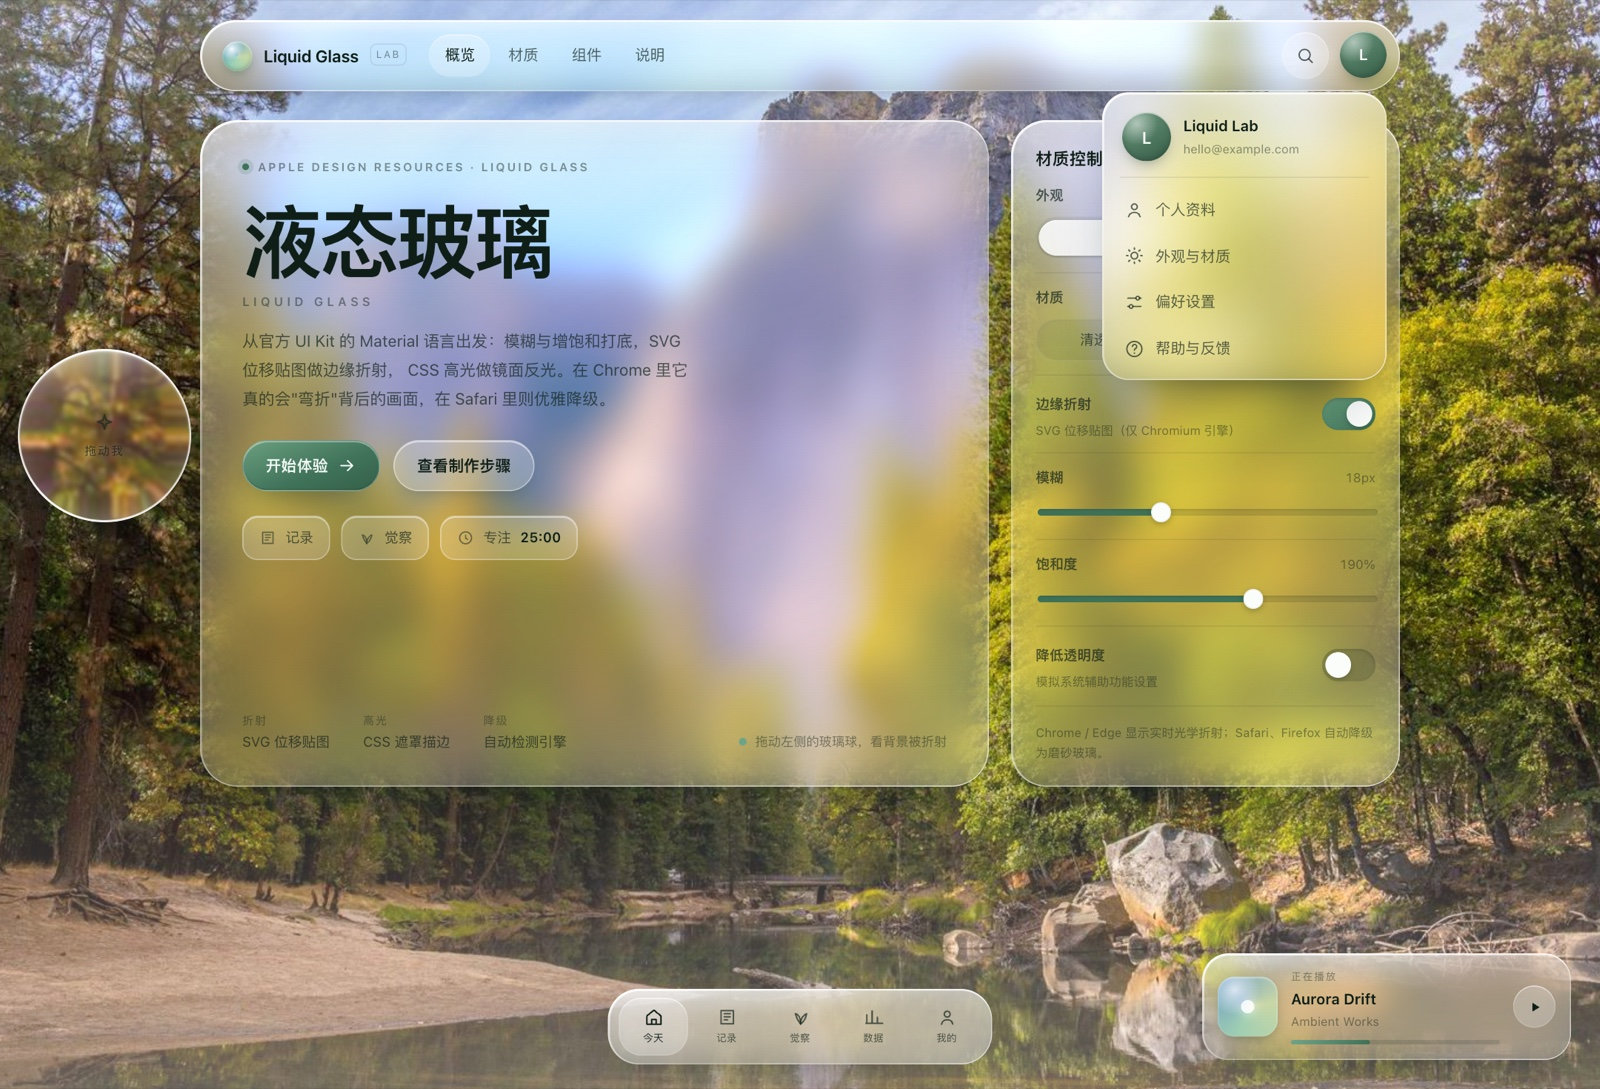
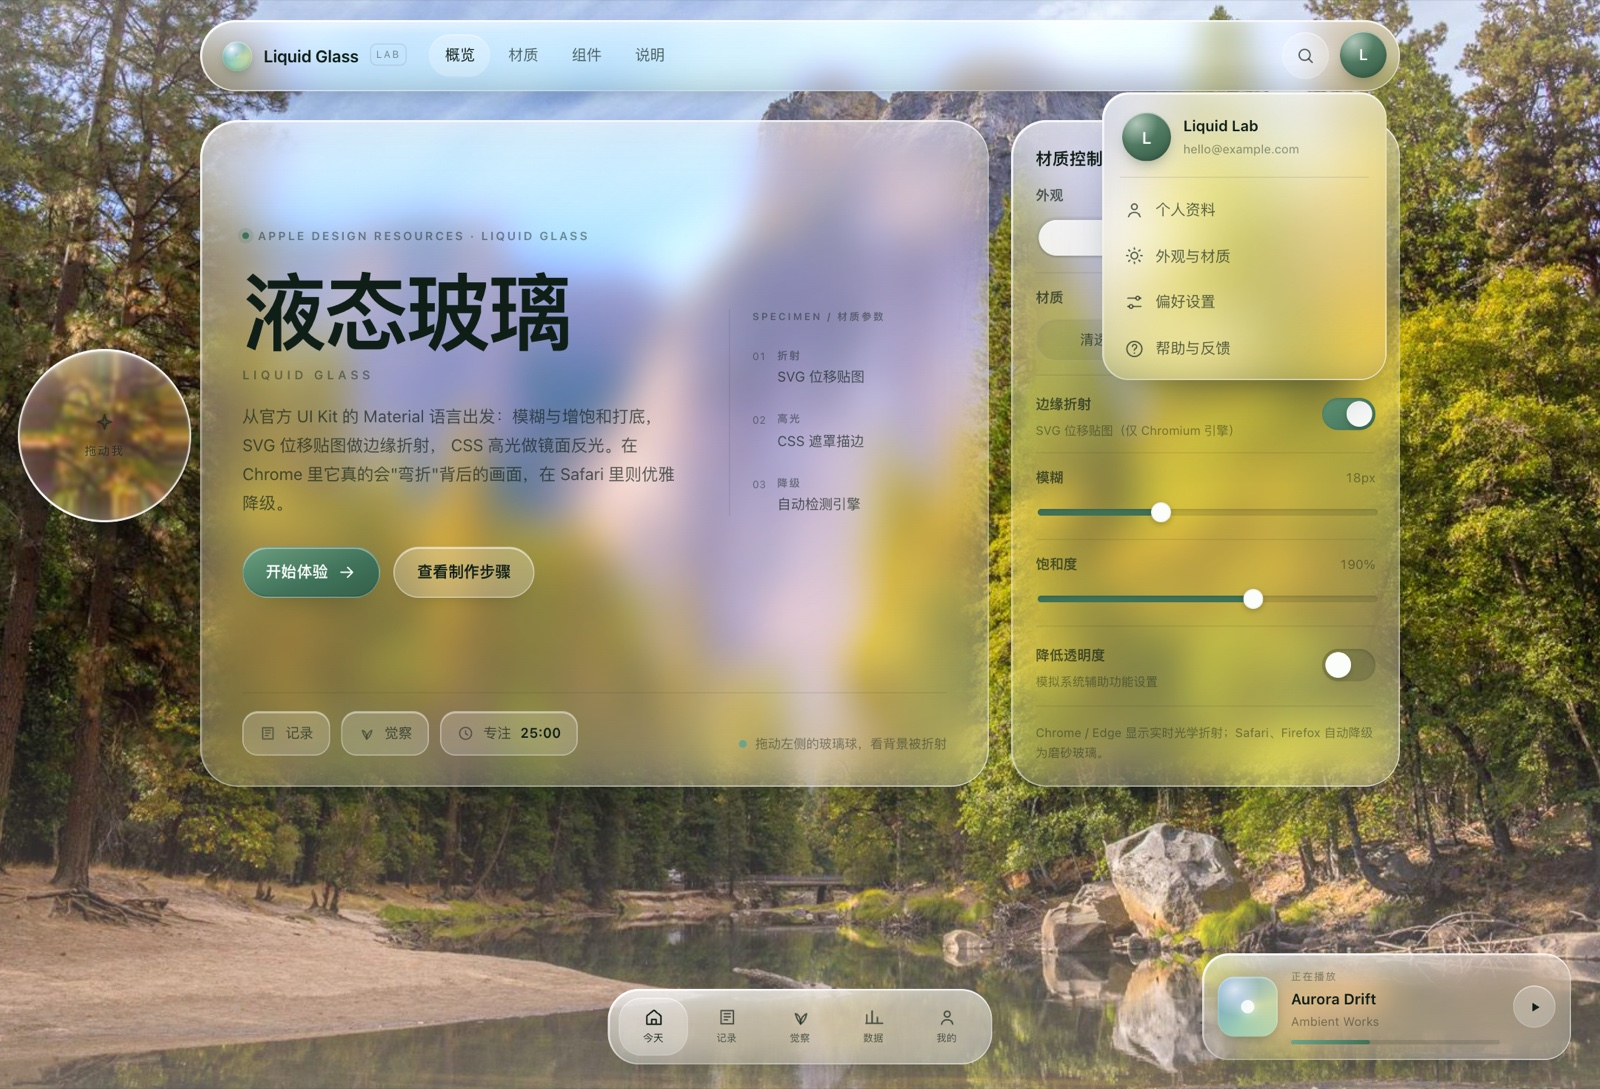
Refine negative space: specimen rail, hero footer rule, section indices, responsive rhythm

diff --git a/examples/lab/lab.css b/examples/lab/lab.css
@@ -527,13 +527,59 @@ html[data-theme="dark"] .lg-material--clear { --lg-fill-a: 0.2; --lg-fill-a-lo: 
 
 /* ---------- 8. Hero ---------- */
 .hero {
-  padding: 34px 38px 30px;
+  padding: 34px 38px 28px;
   min-height: 500px;
+  display: grid;
+  grid-template-columns: minmax(0, 1fr) 196px;
+  grid-template-rows: 1fr auto;
+  column-gap: 30px;
+  row-gap: 24px;
+  --lg-radius: 34px;
+}
+
+.hero__top {
+  grid-column: 1;
+  grid-row: 1;
+  align-self: center;
+}
+
+.hero__specs {
+  grid-column: 2;
+  grid-row: 1;
+  align-self: center;
   display: flex;
   flex-direction: column;
-  justify-content: space-between;
-  gap: 30px;
-  --lg-radius: 34px;
+  gap: 20px;
+  padding-left: 20px;
+  border-left: 1px solid var(--hairline);
+}
+.specs__cap {
+  font-size: 9px;
+  font-weight: 600;
+  letter-spacing: 0.2em;
+  text-transform: uppercase;
+  color: var(--ink-faint);
+}
+.spec { display: flex; gap: 10px; }
+.spec__no {
+  font-size: 9.5px;
+  color: var(--ink-faint);
+  font-variant-numeric: tabular-nums;
+  padding-top: 1px;
+}
+.spec__k {
+  display: block;
+  font-size: 9.5px;
+  font-weight: 600;
+  letter-spacing: 0.14em;
+  text-transform: uppercase;
+  color: var(--ink-faint);
+}
+.spec__v {
+  display: block;
+  margin-top: 2px;
+  font-size: 12.5px;
+  color: var(--ink-soft);
 }
 
 .eyebrow {
@@ -556,7 +602,7 @@ html[data-theme="dark"] .lg-material--clear { --lg-fill-a: 0.2; --lg-fill-a-lo: 
 
 .hero h1 {
   margin-top: 22px;
-  font-size: clamp(50px, 5vw, 74px);
+  font-size: clamp(54px, 5.3vw, 78px);
   line-height: 0.96;
   letter-spacing: -0.035em;
   font-weight: 680;
@@ -573,14 +619,14 @@ html[data-theme="dark"] .lg-material--clear { --lg-fill-a: 0.2; --lg-fill-a-lo: 
 
 .lede {
   margin-top: 18px;
-  max-width: 44ch;
-  font-size: 14.5px;
-  line-height: 1.78;
+  max-width: 42ch;
+  font-size: 15px;
+  line-height: 1.75;
   color: var(--ink-soft);
 }
 
 .hero__actions {
-  margin-top: 24px;
+  margin-top: 26px;
   display: flex;
   align-items: center;
   gap: 12px;
@@ -643,7 +689,7 @@ html[data-theme="dark"] .btn--quiet:hover { background: rgba(255, 255, 255, 0.13
 .btn--sm { height: 38px; padding: 0 16px; font-size: 12.5px; }
 
 .hero__quick {
-  margin-top: 22px;
+  margin-top: 0;
   display: flex;
   gap: 10px;
   flex-wrap: wrap;
@@ -669,21 +715,16 @@ html[data-theme="dark"] .quick {
 }
 
 .hero__bottom {
+  grid-column: 1 / -1;
+  grid-row: 2;
   display: flex;
   align-items: flex-end;
   justify-content: space-between;
   gap: 20px;
   flex-wrap: wrap;
+  padding-top: 16px;
+  border-top: 1px solid var(--hairline);
 }
-.hero__facts { display: flex; gap: 30px; }
-.fact { display: flex; flex-direction: column; gap: 2px; }
-.fact__k {
-  font-size: 10px;
-  letter-spacing: 0.14em;
-  text-transform: uppercase;
-  color: var(--ink-faint);
-}
-.fact__v { font-size: 12.5px; color: var(--ink-soft); }
 
 .hero__hint {
   display: flex;
@@ -918,19 +959,31 @@ html[data-theme="dark"] .section-head {
   background: rgba(255, 255, 255, 0.06);
   border-color: rgba(255, 255, 255, 0.14);
 }
+.section-head__lead {
+  display: flex;
+  align-items: baseline;
+  gap: 14px;
+}
+.section-head__no {
+  font-size: 10px;
+  letter-spacing: 0.18em;
+  color: var(--ink-faint);
+  font-variant-numeric: tabular-nums;
+}
 .section-head h2 { font-size: 15px; font-weight: 620; }
 .section-head p {
   font-size: 12px;
   line-height: 1.6;
   color: var(--ink-faint);
-  max-width: 62ch;
+  max-width: 56ch;
+  text-align: right;
 }
 
 .material-grid {
   display: grid;
   grid-template-columns: repeat(3, minmax(0, 1fr));
   gap: 20px;
-  margin-top: 14px;
+  margin-top: 16px;
 }
 
 .material-card {
@@ -964,13 +1017,13 @@ html[data-theme="dark"] .section-head {
 .material-card .btn { align-self: flex-start; }
 
 /* ---------- 11. Components ---------- */
-.components { margin-top: 34px; }
+.components { margin-top: 40px; }
 
 .component-grid {
   display: grid;
   grid-template-columns: repeat(3, minmax(0, 1fr));
   gap: 20px;
-  margin-top: 14px;
+  margin-top: 16px;
 }
 
 .component-card {
@@ -1071,7 +1124,7 @@ html[data-theme="dark"] .chip {
 
 /* ---------- 12. Notes ---------- */
 .notes {
-  margin-top: 40px;
+  margin-top: 48px;
   padding: 16px 20px;
   border-radius: 18px;
   display: flex;
@@ -1313,8 +1366,8 @@ html[data-theme="dark"] .lens__inner { text-shadow: 0 1px 8px rgba(0, 0, 0, 0.5)
   .player { display: none; }
   .materials { margin-top: 64px; }
   .stage { grid-template-columns: minmax(0, 1fr); }
-  .hero { min-height: 440px; }
-  .console { max-width: 620px; }
+  .hero { min-height: 0; }
+  .console { max-width: 620px; margin-inline: auto; }
 }
 
 @media (max-width: 860px) {
@@ -1324,16 +1377,40 @@ html[data-theme="dark"] .lens__inner { text-shadow: 0 1px 8px rgba(0, 0, 0, 0.5)
   .hero { padding: 28px 26px 26px; --lg-radius: 28px; }
   .hero h1 { font-size: clamp(46px, 13vw, 64px); }
   .lede { font-size: 13.5px; }
-  .console { padding: 22px; }
+  .console { padding: 22px; max-width: none; }
   .material-grid, .component-grid { grid-template-columns: minmax(0, 1fr); }
   .lens { width: 132px; height: 132px; --lg-blur: 14px; left: 18px; bottom: 110px; }
   .lens__inner { font-size: 9px; }
   .lens__inner .i { width: 18px; height: 18px; }
   .dock { width: calc(100vw - 28px); justify-content: space-between; padding: 7px 8px; }
   .dock__item { width: auto; flex: 1; }
-  .hero__facts { gap: 20px; }
   .hero__hint { display: none; }
   .menu { top: 84px; right: 16px; }
+}
+
+@media (max-width: 760px) {
+  .hero {
+    grid-template-columns: minmax(0, 1fr);
+    grid-template-rows: auto auto auto;
+    row-gap: 22px;
+  }
+  .hero__top { grid-column: 1; grid-row: 1; }
+  .hero__specs {
+    grid-column: 1;
+    grid-row: 2;
+    align-self: stretch;
+    display: grid;
+    grid-template-columns: repeat(3, minmax(0, 1fr));
+    gap: 14px 18px;
+    padding-left: 0;
+    padding-top: 16px;
+    border-left: 0;
+    border-top: 1px solid var(--hairline);
+  }
+  .specs__cap { grid-column: 1 / -1; }
+  .spec__no { display: none; }
+  .spec__v { font-size: 12px; }
+  .hero__bottom { grid-column: 1; grid-row: 3; }
 }
 
 @media (max-width: 520px) {

diff --git a/examples/lab/index.html b/examples/lab/index.html
@@ -91,7 +91,34 @@
               查看制作步骤
             </button>
           </div>
+        </div>
 
+        <aside class="hero__specs" aria-label="技术参数">
+          <span class="specs__cap">Specimen / 材质参数</span>
+          <div class="spec">
+            <span class="spec__no">01</span>
+            <span class="spec__body">
+              <span class="spec__k">折射</span>
+              <span class="spec__v">SVG 位移贴图</span>
+            </span>
+          </div>
+          <div class="spec">
+            <span class="spec__no">02</span>
+            <span class="spec__body">
+              <span class="spec__k">高光</span>
+              <span class="spec__v">CSS 遮罩描边</span>
+            </span>
+          </div>
+          <div class="spec">
+            <span class="spec__no">03</span>
+            <span class="spec__body">
+              <span class="spec__k">降级</span>
+              <span class="spec__v">自动检测引擎</span>
+            </span>
+          </div>
+        </aside>
+
+        <div class="hero__bottom">
           <div class="hero__quick" aria-label="快捷记录">
             <span class="quick">
               <svg viewBox="0 0 24 24" class="i"><path d="M5 4.5h14v15H5z"/><path d="M8.5 8h7M8.5 11.5h7M8.5 15h4"/></svg>
@@ -105,23 +132,6 @@
               <svg viewBox="0 0 24 24" class="i"><circle cx="12" cy="12" r="8"/><path d="M12 8v4.5l3 1.8"/></svg>
               专注 <strong>25:00</strong>
             </span>
-          </div>
-        </div>
-
-        <div class="hero__bottom">
-          <div class="hero__facts">
-            <div class="fact">
-              <span class="fact__k">折射</span>
-              <span class="fact__v">SVG 位移贴图</span>
-            </div>
-            <div class="fact">
-              <span class="fact__k">高光</span>
-              <span class="fact__v">CSS 遮罩描边</span>
-            </div>
-            <div class="fact">
-              <span class="fact__k">降级</span>
-              <span class="fact__v">自动检测引擎</span>
-            </div>
           </div>
           <p class="hero__hint">
             <span class="pulse" aria-hidden="true"></span>
@@ -201,7 +211,7 @@
     <!-- 三种材质 -->
     <section class="materials" id="materials" aria-labelledby="matTitle">
       <div class="section-head">
-        <h2 id="matTitle">三种材质</h2>
+        <div class="section-head__lead"><span class="section-head__no">01</span><h2 id="matTitle">三种材质</h2></div>
         <p>Apple 的 Liquid Glass 只有 regular 与 clear 两种变体；着色（tinted）在材质里混入品牌色。</p>
       </div>
       <div class="material-grid">
@@ -237,7 +247,7 @@
     <!-- 组件示例 -->
     <section class="components" id="components" aria-labelledby="compTitle">
       <div class="section-head">
-        <h2 id="compTitle">组件</h2>
+        <div class="section-head__lead"><span class="section-head__no">02</span><h2 id="compTitle">组件</h2></div>
         <p>导航、分段控件、开关、滑块、浮层菜单与底部 Dock 都使用同一套材质令牌。</p>
       </div>
 
